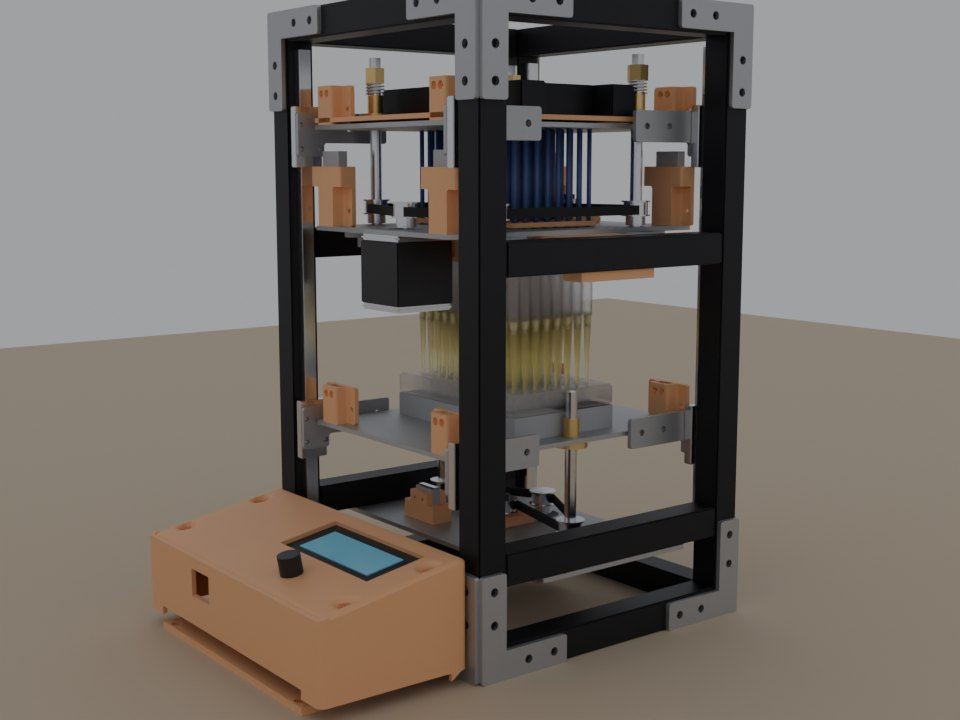
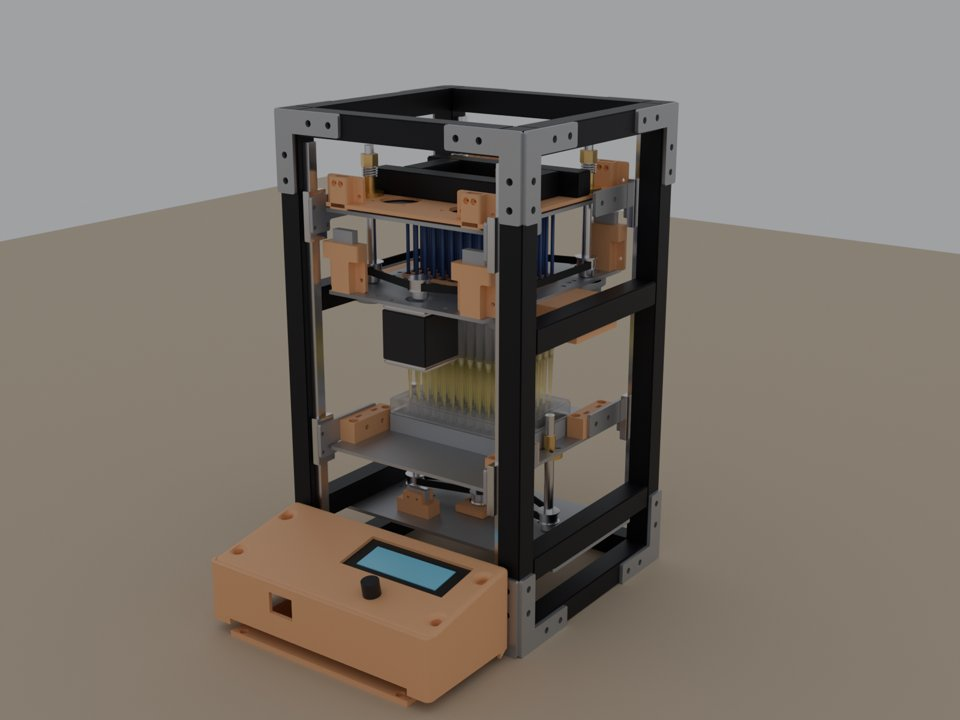
Replace the lift platform's corner blocks with carriage brackets
The four blocks on the lift platform were copies of the repo's
LimitSwitch_holder_A, a limit-switch holder, and held no switch. They
also joined nothing: the steel plate stopped 1.6 mm short of the rail
plates, and the rail plates' M4 holes lined up with the plate's 3 mm edge.

A printed carriage bracket at each corner now joins the platform to its
rail plate: 2 M4 in through the rail plate's own holes into captive nuts,
and 2 M4 down through counterbores and the platform (8 new holes in
lift_plate.dxf, LIFT_BRACKET_* in make_dxf.py). The rail plates and
carriages ride 11.5 mm higher so their M4 row clears the plate. The
brackets stay 2 mm outside the well plate's loading path.

Collision sweep clean; the carriages stay on the rails through the full
travel. Added lift_carriage_bracket.stl, updated the BOM, the fabrication
README and the lowered/raised renders, and added a bracket close-up.

diff --git a/04_Blender/variant_motor_lift.py b/04_Blender/variant_motor_lift.py
@@ -17,7 +17,7 @@ Builds the baseline (build_pipette.py) and then modifies it:
     micro switch pressed by the platform underside at the bottom of travel
   * frees two of the CNC shield's four driver slots (X = plunger, Y = lift)
   * the pipette plate is bolted through two printed brackets to a 2020 bar along each side of
-    the frame; the lift platform's rail plates hang from four printed corner blocks
+    the frame; the lift platform's rail plates bolt to four printed carriage brackets on the plate
   * the control box lies in front of the base with its screen panel sloped toward the user
     (CONTROL_SLOPE_DEG), low enough that well plates still slide in from the front over it
 Layout numbers and the laser-cut plates come from 01_Hardware/MotorLift/make_dxf.py (run it first
@@ -72,6 +72,9 @@ TRAY_H, PLATE_H = 15.0, 14.4
 TIP_DEPTH = 9.0                   # tips this far into the wells at the top of travel
 LIFT_TRAVEL = (P - 112 + TIP_DEPTH) - (LIFT0 + T + TRAY_H + PLATE_H)
 LIFT_LEAD = 2.0                   # T8x2 on the lift: force + self-locking
+BRK_H = 18.0                      # lift carriage bracket height above the plate
+BRK_BOLT_Z = LIFT0 + T + 10.0     # rail-plate M4 row: the rail plates ride this high so it clears the plate
+LIFT_IF_HOLE_Y = (PY - 30.0, PY - 50.0)   # the rail plate's 2 M4 holes (DXF x 20, 40; anchor x -10 at PY)
 # plunger
 PS_XY = L.PS_XY                   # order: LF, RF, LB, RB
 PLG_MOTOR_XY = L.PLG_MOTOR_XY
@@ -333,6 +336,32 @@ def head_bracket(name, sx, coll):
     return o
 
 
+def lift_carriage_bracket(name, sx, sy, coll):
+    """Printed block joining the lift plate to one rail plate. It sits on the plate, its outer
+    face against the rail plate: 2 M4 from outside through the rail plate's own holes into
+    captive nuts (slots from the top), 2 M4 down through the block and the plate (counterbored,
+    nuts under the plate). Its inner face stays 2 mm outside the well plate's path."""
+    zb, zt = LIFT0 + T, LIFT0 + T + BRK_H
+    x_in, x_out = 66.0, IF_X - T / 2                  # inner face; outer face = rail plate
+    y0, y1 = L.LIFT_BRACKET_Y[0] - 5, L.LIFT_BRACKET_Y[1] + 5
+    o = box(name, (x_out - x_in, y1 - y0, BRK_H), (sx * (x_in + x_out) / 2, sy * (y0 + y1) / 2, (zb + zt) / 2),
+            coll, M["pla"])
+    bm = bmesh.new()                                  # two passes so no cutters overlap each other
+    for y in LIFT_IF_HOLE_Y:                          # rail-plate bolts
+        _bar(bm, (sx * (x_in - 1), sy * y, BRK_BOLT_Z), (sx * (x_out + 1), sy * y, BRK_BOLT_Z), L.M4 / 2)
+    for y in L.LIFT_BRACKET_Y:                        # plate bolts
+        _cone(bm, L.M4 / 2, L.M4 / 2, zb - 1, zt + 1, xy=(sx * L.LIFT_BRACKET_X, sy * y))
+    boolean(o, bm)
+    bm = bmesh.new()
+    for y in LIFT_IF_HOLE_Y:                          # M4 nut slots (7 mm AF), open at the top
+        xa, xb = sorted((sx * 73.0, sx * 76.5))
+        _block(bm, xa, xb, sy * y - 3.7, sy * y + 3.7, BRK_BOLT_Z - 4.0, zt + 1)
+    for y in L.LIFT_BRACKET_Y:                        # counterbores for the plate-bolt heads
+        _cone(bm, 4.2, 4.2, zb + 8, zt + 1, xy=(sx * L.LIFT_BRACKET_X, sy * y))
+    boolean(o, bm)
+    return o
+
+
 def fab_plate(fname, obj_name, coll, loc):
     """A laser-cut plate from the generated DXFs (01_Hardware/MotorLift/ToLaserCut-DXF)."""
     o = dxf_part(os.path.join(FAB_DXF, fname), obj_name, T, coll, M["steel"])
@@ -523,13 +552,11 @@ def modify():
     # platform (+ carriages, interface plates, nuts, tray, plate)
     lp = fab_plate("lift_plate.dxf", "lift_plate", "Bed", (0, 0, LIFT0 + T / 2))
     members = [lp]
-    src_blk = obj["LimitSwitch_holder_A"]            # same corner blocks as the plunger plate
-    for i, (sx, sy) in enumerate(((-1, -1), (1, -1), (-1, 1), (1, 1)), 1):
-        b = dup(src_blk, f"lift_corner_block_{i}", "Bed")
-        b.location = (sx * 63, sy * (100 - src_blk.dimensions.y / 2), LIFT0 + T)
-        members.append(b)
+    for sx in (-1, 1):
+        for sy in (-1, 1):
+            members.append(lift_carriage_bracket(f"lift_carriage_bracket_{'LR'[sx > 0]}{'FB'[sy > 0]}", sx, sy, "Bed"))
     src = dxf_part("interface_plate_high.DXF", "lift_interface", T, "Bed", M["steel"])
-    zc = LIFT0 + T / 2 - 10
+    zc = BRK_BOLT_Z - 10                              # DXF hole row y = 10 lands on the bracket bolts
     for i, (sx, sy) in enumerate(((-1, -1), (1, -1), (-1, 1), (1, 1))):
         o = src if i == 0 else dup(src, f"lift_interface.{i:03d}")
         g["frame_to"](o, -sy * Vector((0, 1, 0)), Vector((0, 0, 1)), (-10, 0), (sx * IF_X, sy * PY, zc))

diff --git a/01_Hardware/MotorLift/make_dxf.py b/01_Hardware/MotorLift/make_dxf.py
@@ -43,7 +43,9 @@ T8_NUT_SCREW_D = 3.4                             # M3 clearance; slot width in t
 LIFT_PLATE = (160.0, 200.0)
 BASE_PLATE = (229.2, 120.0)
 BASE_MOUNT_XY = [(sx * 104.6, sy * 45.0) for sx in (-1, 1) for sy in (-1, 1)]  # into side extrusions
-CORNER_BLOCK_HOLES = [(sx * 65.0, sy * 90.0) for sx in (-1, 1) for sy in (-1, 1)]   # same as the plunger plate
+LIFT_BRACKET_X = 71.0                            # lift carriage brackets: 2 M4 down through the plate each,
+LIFT_BRACKET_Y = (38.0, 80.0)                    # either side of the rail plate's M4 holes (y 49, 69)
+LIFT_BRACKET_HOLES = [(sx * LIFT_BRACKET_X, sy * y) for sx in (-1, 1) for sy in (-1, 1) for y in LIFT_BRACKET_Y]
 
 # Hole diameters
 M3, M4, M5 = 3.4, 4.5, 5.5
@@ -193,7 +195,7 @@ def lift_plate():
     ents = rounded_rect(w, h)
     for s in (-1, 1):                                        # nut flange underneath, body up through
         ents += nut_holes(s * LIFT_X, 0.0, T8_NUT_BODY_BORE_D)
-    ents += [circle(x, y, M4) for x, y in CORNER_BLOCK_HOLES]
+    ents += [circle(x, y, M4) for x, y in LIFT_BRACKET_HOLES]
     return ents
 
 

diff --git a/04_Blender/export_motor_lift_parts.py b/04_Blender/export_motor_lift_parts.py
@@ -20,6 +20,7 @@ PARTS = {   # object -> (file, rotation for printing)
     "lift_tensioner_bracket": ("tensioner_bracket_lift.stl", Matrix.Identity(3)),
     "plunger_tensioner_bracket": ("tensioner_bracket_plunger.stl", Matrix.Identity(3)),
     "lift_home_switch_holder": ("lift_home_switch_holder.stl", Matrix.Identity(3)),
+    "lift_carriage_bracket_RF": ("lift_carriage_bracket.stl", Matrix.Identity(3)),   # all 4 corners alike
     # L profile printed on its side: the y = -30 face goes down
     "head_bracket_R": ("head_bracket.stl", Matrix.Rotation(math.radians(-90), 3, 'X')),
     # sloped control box: panel face down (undo the slope, then flip), open side up

diff --git a/BOM.md b/BOM.md
@@ -21,7 +21,7 @@ would be lighter but about 3x more flexible, which costs plunger accuracy.
 |---|---|---|---|---|
 | Pipette plate | 1 | `MotorLift/ToLaserCut-DXF/pipette_plate_motorlift.dxf` | Generated | Plunger screws + KFL08s, plunger motor, tensioner slot, side-bracket holes. |
 | Plunger plate | 1 | `MotorLift/ToLaserCut-DXF/plunger_plate_motorlift.dxf` | Generated | 4 T8 nut cutouts; old motor cutouts removed. |
-| Lift platform | 1 | `MotorLift/ToLaserCut-DXF/lift_plate.dxf` | Generated | 160 x 200 mm, 2 T8 nut cutouts. |
+| Lift platform | 1 | `MotorLift/ToLaserCut-DXF/lift_plate.dxf` | Generated | 160 x 200 mm, 2 T8 nut cutouts, 8 carriage-bracket holes. |
 | Lift base plate | 1 | `MotorLift/ToLaserCut-DXF/lift_base_plate.dxf` | Generated | 229.2 x 120 mm. |
 | Interface plate, high | 8 | `ToLaserCut-DXF/interface_plate_high.DXF` | Repo | 4 for the plunger plate, 4 for the lift platform. |
 | Frame corner bracket | 16 | `ToLaserCut-DXF/angle_bracket-(optionally can be purchased).DXF` | Repo | Or buy 2020 flat L corner plates. |
@@ -40,7 +40,7 @@ least 220 mm.
 | Syringe barrel grip | 1 | `ToPrint-STL/syringe_grip_static.STL` | Repo | Barrels press-fit into it. |
 | Syringe/plunger retainer | 1 | `ToPrint-STL/S-P_plate.STL` | Repo | |
 | Plunger holder plate | 1 | `MotorLift/ToPrint-STL/plunger_holder_plate_motorlift.stl` | Generated | The plunger nuts sit on it. |
-| Corner block | 8 | `ToPrint-STL/LimitSwitch_holder_A.STL` | Repo | 4 on the plunger plate, 4 on the lift platform. |
+| Corner block | 4 | `ToPrint-STL/LimitSwitch_holder_A.STL` | Repo | On the plunger plate. |
 | Corner block + switch, pipette level | 4 | `ToPrint-STL/LimitSwitch_holder_B.STL` | Repo | |
 | Electronics housing (sloped) | 1 | `MotorLift/ToPrint-STL/control_box_housing_sloped.stl` | Generated | Repo housing with the screen panel tilted 10 deg toward the user. Lies in front of the base; 2 screws through its back wall into the bottom front bar. |
 | Electronics lid | 1 | `ToPrint-STL/electronics_lid.STL` | Repo | |
@@ -48,6 +48,7 @@ least 220 mm.
 | Head bracket | 2 | `MotorLift/ToPrint-STL/head_bracket.stl` | Generated | Bolts the pipette plate to the side bars. |
 | Belt tensioner bracket (lift) | 1 | `MotorLift/ToPrint-STL/tensioner_bracket_lift.stl` | Generated | |
 | Belt tensioner bracket (plunger) | 1 | `MotorLift/ToPrint-STL/tensioner_bracket_plunger.stl` | Generated | |
+| Lift carriage bracket | 4 | `MotorLift/ToPrint-STL/lift_carriage_bracket.stl` | Generated | Joins the lift platform to its 4 rail plates; same part at every corner. 2 captive M4 nuts each. |
 | Lift home-switch holder | 1 | `MotorLift/ToPrint-STL/lift_home_switch_holder.stl` | Generated | For a KW12-type switch. |
 
 Not needed: `bed_left/right`, `bearing_holder`, `bearing_insert`, `bearing_insert_lid`,
@@ -113,7 +114,9 @@ T-nuts.
 | M3 x 10 + nut | 24 | Motors (8), lift nuts (8), tensioner brackets (4), switch holder (2), spares |
 | M3 x 16 + nut | 16 | Plunger nuts (through nut flange, holder plate, 1.5 mm washers and plunger plate) |
 | M3 flat washer (7 mm OD) | 24 | Under the M3 nuts at the T8 nut cutouts, to span the slots (lift 8, plunger 16) |
-| M4 x 10 + nut | 32 | Interface plates (16), KFL08 bearings (12), head brackets to the pipette plate (4) |
+| M4 x 10 + nut | 24 | Plunger interface plates (8), KFL08 bearings (12), head brackets to the pipette plate (4) |
+| M4 x 12 + nut | 8 | Lift rail plates into the carriage brackets' captive nuts |
+| M4 x 16 + nut | 8 | Carriage brackets down through the lift platform |
 | M2 x 16 + nut | 2 | Lift home switch |
 | M2/M2.5 screws | 6 | Plunger-level limit switches |
 | Shoulder bolt + nut for idlers | 2 | Tensioners |

diff --git a/01_Hardware/MotorLift/README.md b/01_Hardware/MotorLift/README.md
@@ -10,7 +10,7 @@ millimeters.
 |---|---|---|
 | `pipette_plate_motorlift.dxf` | 1 | From `pipette_plate.DXF`: old per-motor nut holes removed; adds the 4 plunger-screw holes + KFL08 bolts, the plunger motor mount, the belt-tensioner slot, and 4 holes for the side-bar brackets. |
 | `plunger_plate_motorlift.dxf` | 1 | From `plunger_plate.DXF`: old motor cutouts removed; adds 4 T8 nut patterns (the nuts sit on the holder plate, body up). |
-| `lift_plate.dxf` | 1 | New: 160 x 200 lift platform with 2 T8 nut patterns (body through) and 4 corner-block holes. |
+| `lift_plate.dxf` | 1 | New: 160 x 200 lift platform with 2 T8 nut cutouts (body through) and 8 holes for the carriage brackets. |
 | `lift_base_plate.dxf` | 1 | New: 229.2 x 120 plate hung under the bed-level side extrusions; lift screws + KFL08s, lift motor, tensioner slot, home-switch holder and 4 M5 mounting holes. |
 
 Each T8 nut mounts through one cloverleaf cutout (the center bore with four 3.4 mm slots out to
@@ -31,9 +31,10 @@ plate). The pipette plate's 96 syringe holes keep the repo plate's 2.5 mm webs.
 | `tensioner_bracket_lift.stl` | 1 | 6.5 mm tall. Idler shoulder bolt in the 12 mm slot, 2 M3 to the plate. |
 | `tensioner_bracket_plunger.stl` | 1 | 5.5 mm tall; otherwise the same. |
 | `control_box_housing_sloped.stl` | 1 | The repo `ScreenHousing` with its screen panel tilted 10 deg toward the user (front 17.5 mm lower). The panel moves as one piece with the LCD, encoder and Arduino standoffs under it, and the USB opening in the front wall is moved to where the port now sits. Prints panel-down. |
+| `lift_carriage_bracket.stl` | 4 | Joins the lift platform to a rail plate (one per corner, all alike). Sits on the platform with its outer face on the rail plate: 2 M4 x 12 in from outside through the rail plate's holes into captive nuts (slots open at the top), 2 M4 x 16 down through counterbores and the platform. Prints as oriented; its inner face stays 2 mm outside the well plate's path. |
 | `lift_home_switch_holder.stl` | 1 | For a KW12-type lever micro switch (20 x 10 x 6.4 mm, mounting holes 9.5 mm apart), clamped by 2 M2 through the walls; 2 M3 to the base plate. Check the hole positions against your switch. |
 
-All six are closed solids (every edge shared by exactly two triangles).
+All seven are closed solids (every edge shared by exactly two triangles).
 
 ## Check against your hardware before cutting
 
